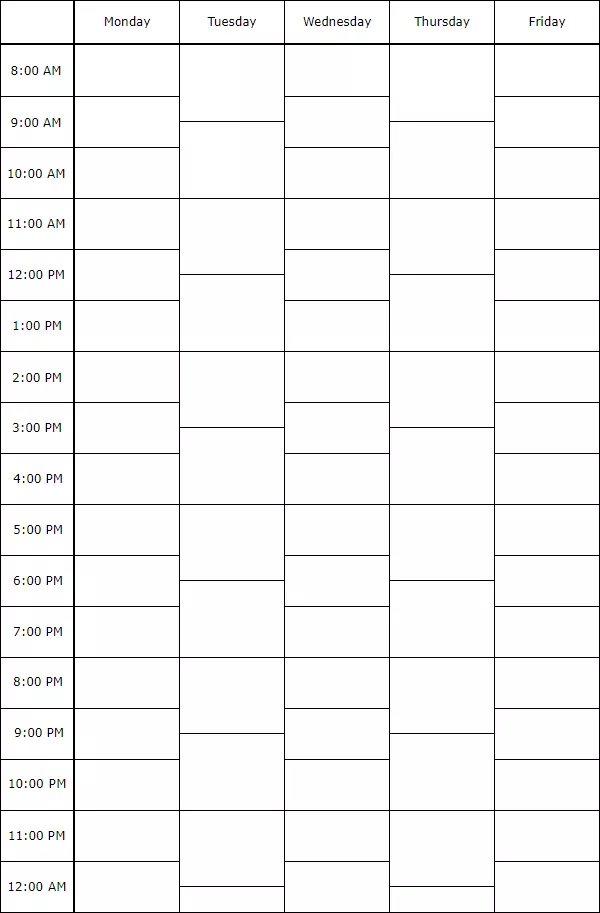
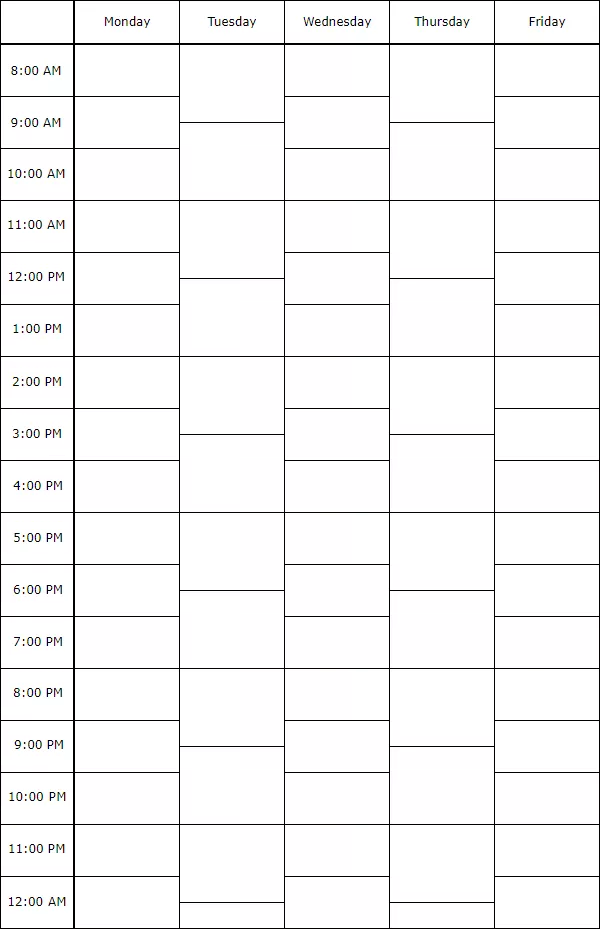
fix boilerplate to have normal pixel length; draw 50/80/170 len classes

diff --git a/util/draw_sched.py b/util/draw_sched.py
@@ -3,9 +3,7 @@ from PIL import Image, ImageDraw, ImageFont
 left_margin_offset = 75
 top_margin_offset = 45
 box_width = 103
-vertical_length_30 = 25
-vertical_length_50 = 49
-vertical_length_80 = 75
+vertical_length_50 = 50
 
 RED = (255,153,153)
 YELLOW = (254,255,153)
@@ -16,8 +14,24 @@ PINK = (255,153,204)
 
 color_scheme = (RED, YELLOW, GREEN, BLUE, PURPLE, PINK)
 day_lookup = {'M':0, 'T':1, 'W':2, 'R':3, 'F':4, 'S':5, 'U':6}
-length_lookup = {0:0, 30:vertical_length_30, 50:vertical_length_50, 80:vertical_length_80}
+length_lookup = {
+    0:      0,
+    30:     25,
+    50:     vertical_length_50,
+    80:     76,
+    170:    154,
+    180:    101
+}
 font = ImageFont.truetype("../fonts/tahoma.ttf", 11)
+
+def get_draw_text(course_class):
+    course_name = course_class[8]
+    class_component = course_class[0]
+    class_section = course_class[1]
+    class_id = course_class[9]
+    text = course_name + '\n' + class_component + ' ' + class_section +\
+        ' (' + class_id + ')'
+    return text
 
 def draw_schedule(sched):
     with Image.open("../boilerplate.png") as image:
@@ -37,21 +51,20 @@ def draw_schedule(sched):
                     r_y0 = 0
                     hours = (start_t // 60 - 8)
                     minutes = (start_t % 60)
-                    r_y0 = top_margin_offset + hours*vertical_length_50 + hours*2
+                    bars_past = 0
+                    if day in 'MWF':
+                        bars_past = max(0, hours*2-1)
+                    elif day in 'TR':
+                        tr_offset = (start_t-480)//90
+                        bars_past = max(0, tr_offset*2+tr_offset-1)
+                    r_y0 = top_margin_offset + hours*vertical_length_50 + bars_past
                     r_y0 += length_lookup[minutes]
                     if hours > 0: # Manual y offset adjust 
                         r_y0 += 1
 
                     r_y1 = r_y0 + length_lookup[end_t - start_t]
                     draw.rectangle([(r_x0, r_y0), (r_x1, r_y1)], fill = color)
-
-                    course_name = course_class[8]
-                    class_component = course_class[0]
-                    class_section = course_class[1]
-                    class_id = course_class[9]
-                    text = course_name + '\n' + class_component + ' ' + class_section +\
-                        ' (' + class_id + ')'
-                    draw.text((r_x0+2, r_y0+2), text, (0,0,0), font=font)
+                    draw.text((r_x0+2, r_y0+2), get_draw_text(course_class), (0,0,0), font=font)
             colors += 1
 
         image.save("schedule.png")

diff --git a/util/driver.py b/util/driver.py
@@ -1,9 +1,18 @@
 from permutation import permute_classes
 from draw_sched import draw_schedule
 
-schedules = permute_classes(["CMPUT 355", "CMPUT 397", "PSYCO 223"])
+basic_schedules1 = permute_classes(["CMPUT 355", "CMPUT 397", "PSYCO 223", "PSYCO 258", "PSYCO 275"])
+b_s1 = basic_schedules1[0]
 
-first_sched = schedules[0]
-print(first_sched)
+basic_schedules2 = permute_classes(["CHEM 102"])
+b_s2 = basic_schedules2[3]
 
-draw_schedule(first_sched)
+mwf_offset = 0
+tf_offset = 0
+manual_sched1 = (( ['LEC', 'A1', 'REMOTE', 'Melis Gedik', 480+60*mwf_offset, 530+60*mwf_offset, 'MWF', None, 'CHEM 102', '75282'],
+['LAB', 'W6', 'REMOTE', 'Yoram Apelblat', 480+90*tf_offset, 650+90*tf_offset, 'T', None, 'CHEM 102', '86592']),)
+
+
+draw_schedule(b_s1)
+
+
